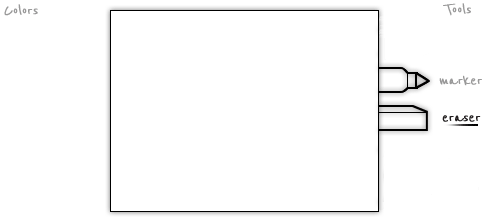
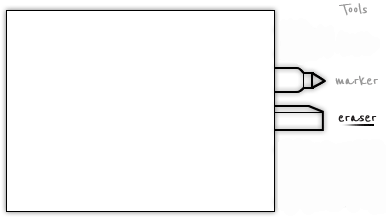
removed colors all together. made canvas smaller with no colors to be able to select.

diff --git a/public/javascripts/canvas_html5.js b/public/javascripts/canvas_html5.js
@@ -21,7 +21,7 @@ function prepareCanvas(canvas_element)
 {
 	var canvas;
 	var context;
-	var canvasWidth = 490;
+	var canvasWidth = 386;
 	var canvasHeight = 220;
 	var padding = 25;
 	var lineWidth = 8;
@@ -38,14 +38,10 @@ function prepareCanvas(canvas_element)
 	var clickSize = new Array();
 	var clickDrag = new Array();
 	var paint = false;
-	var curColor = colorPurple;
+	var curColor = colorGreen;
 	var curTool = "marker";
 	var curSize = "normal";
-	var mediumStartX = 75;
-	var mediumStartY = 85;
-	var mediumImageWidth = 93;
-	var mediumImageHeight = 46;
-	var drawingAreaX = 111;
+	var drawingAreaX = 8;
 	var drawingAreaY = 11;
 	var drawingAreaWidth = 267;
 	var drawingAreaHeight = 200;
@@ -112,18 +108,7 @@ function prepareCanvas(canvas_element)
 		var mouseX = e.pageX - this.offsetLeft;
 		var mouseY = e.pageY - this.parentNode.parentNode.parentNode.parentNode.parentNode.offsetTop + this.offsetTop + 10;
 
-		if(mouseX < drawingAreaX + 16) // Left of the drawing area
-		{
-			if(mouseX > mediumStartX)
-			{
-				if(mouseY > mediumStartY && mouseY < mediumStartY + mediumImageHeight){
-					curColor = colorPurple;
-				}else if(mouseY > mediumStartY + mediumImageHeight && mouseY < mediumStartY + mediumImageHeight * 2){
-					curColor = colorGreen;
-				}
-			}
-		}
-		else if(mouseX > drawingAreaX + drawingAreaWidth + 16) // Right of the drawing area
+		if(mouseX > drawingAreaX + drawingAreaWidth + 16) // Right of the drawing area
 		{
 			if(mouseY > toolHotspotStartY)
 			{
@@ -196,55 +181,15 @@ function prepareCanvas(canvas_element)
 
 		clearCanvas();
 
-		var locX;
-		var locY;
 		if(curTool == "marker")
 		{
 			// Draw the marker tool background
 			context.drawImage(markerBackgroundImage, 0, 0, canvasWidth, canvasHeight);
-
-			// Purple
-			locX = (curColor == colorPurple) ? 18 : 52;
-			locY = 19;
-
-			context.beginPath();
-			context.moveTo(locX + 10, locY + 24);
-			context.lineTo(locX + 10, locY + 24);
-			context.lineTo(locX + 22, locY + 16);
-			context.lineTo(locX + 22, locY + 31);
-			context.closePath();
-			context.fillStyle = colorPurple;
-			context.fill();	
-
-			if(curColor == colorPurple){
-				context.drawImage(markerImage, locX, locY, mediumImageWidth, mediumImageHeight);
-			}else{
-				context.drawImage(markerImage, 0, 0, 59, mediumImageHeight, locX, locY, 59, mediumImageHeight);
-			}
-
-			// Green
-			locX = (curColor == colorGreen) ? 18 : 52;
-			locY += 46;
-
-			context.beginPath();
-			context.moveTo(locX + 10, locY + 24);
-			context.lineTo(locX + 10, locY + 24);
-			context.lineTo(locX + 22, locY + 16);
-			context.lineTo(locX + 22, locY + 31);
-			context.closePath();
-			context.fillStyle = colorGreen;
-			context.fill();	
-
-			if(curColor == colorGreen){
-				context.drawImage(markerImage, locX, locY, mediumImageWidth, mediumImageHeight);
-			}else{
-				context.drawImage(markerImage, 0, 0, 59, mediumImageHeight, locX, locY, 59, mediumImageHeight);
-			}
 		}
 		else if(curTool == "eraser")
 		{
+			// Draw the eraser tool background
 			context.drawImage(eraserBackgroundImage, 0, 0, canvasWidth, canvasHeight);
-			context.drawImage(eraserImage, 18, 19, mediumImageWidth, mediumImageHeight);	
 		}else{
 			alert("Error: Current Tool is undefined");
 		}
